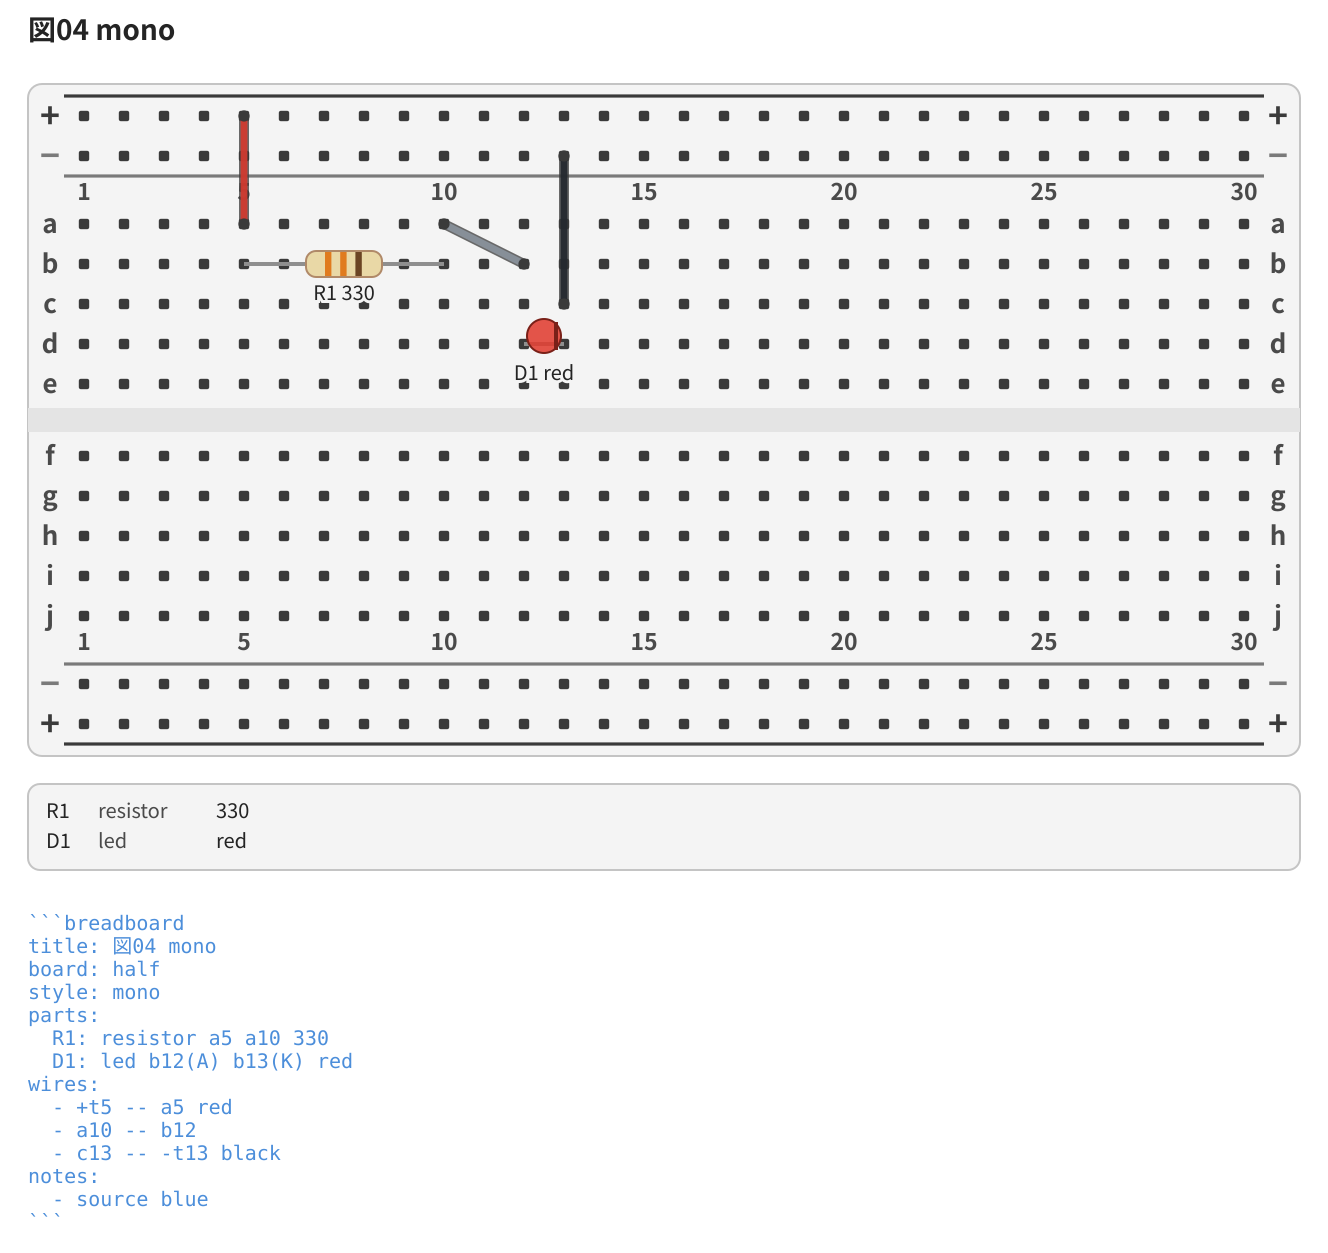
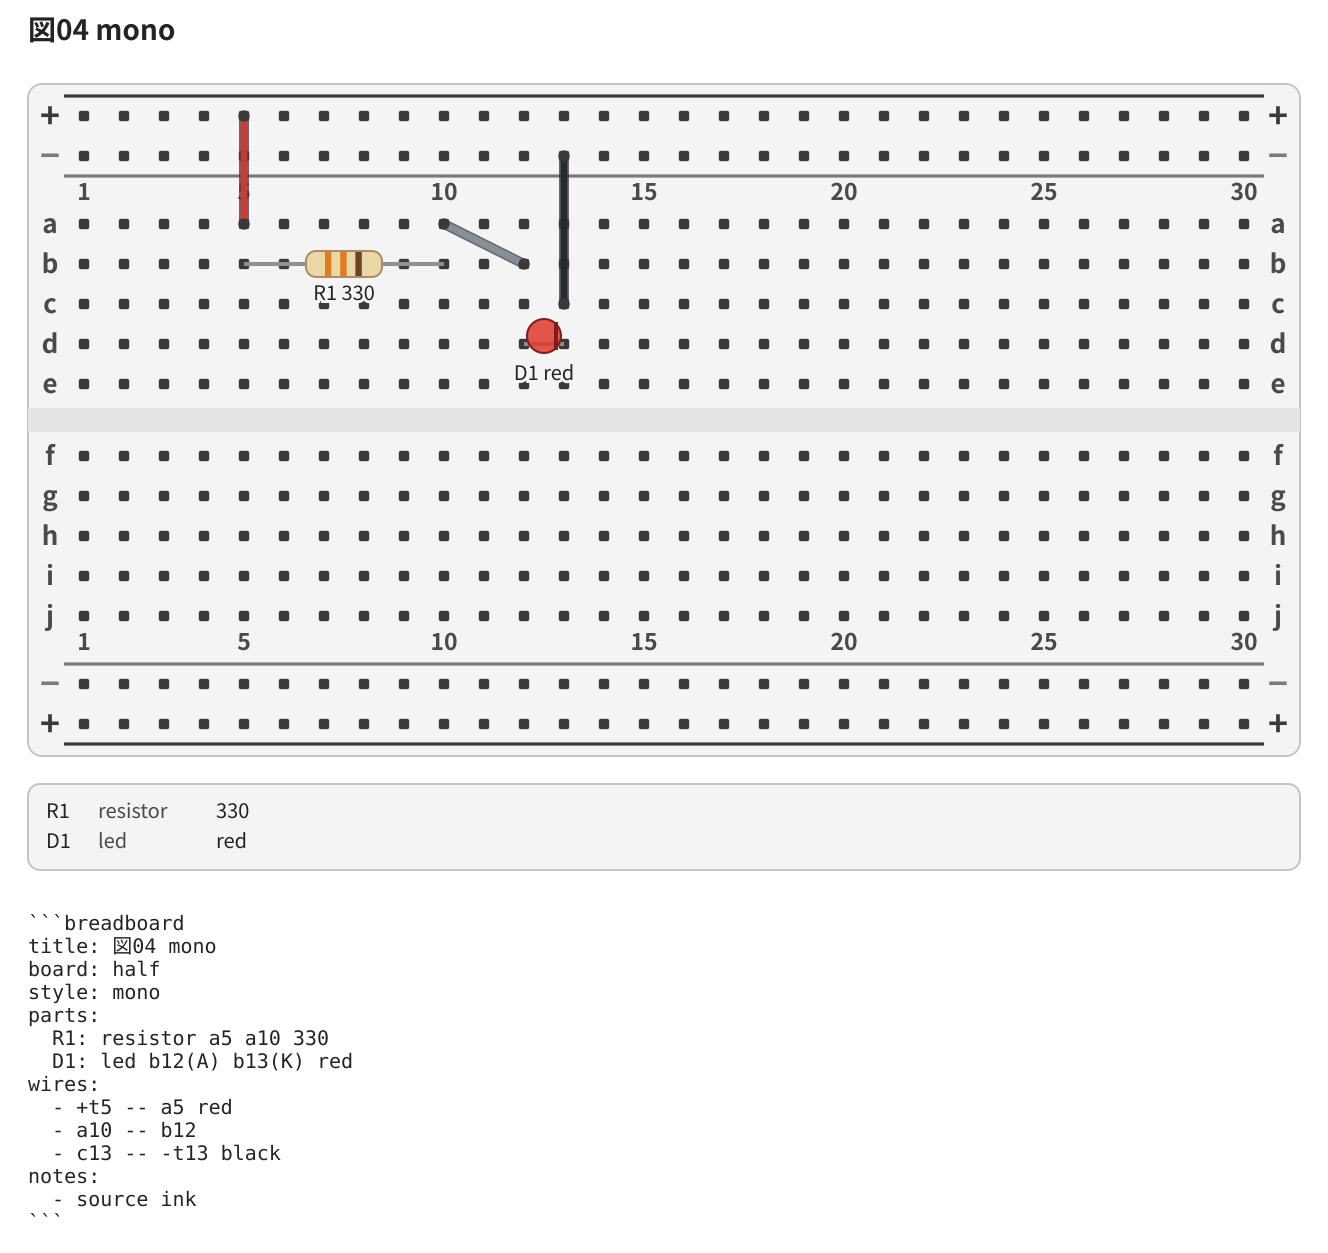
docs(breadboard-fence): mono の例の書き出しをテーマの色に従わせる
02-themes の図04 (mono) だけ - source ink にした。灰色だけの図の中で
書き出しの囲みだけが青く浮いていた。ink は図の文字色なので、テーマを
変えると一緒に動く (色見本の図でテーマの外の色を混ぜない)。

他の 5 枚は blue のまま — あちらは色の付く図なので浮かない。

🤖 Generated with [Claude Code](https://claude.com/claude-code)

Changed region(s): [[0.0309, 0.7159, 0.2161, 0.9649], [0.1852, 0.8093, 0.247, 0.8715], [0.247, 0.8404, 0.2779, 0.8715]]

diff --git a/packages/breadboard-fence/examples/02-themes.md b/packages/breadboard-fence/examples/02-themes.md
@@ -89,7 +89,7 @@ wires:
   - a10 -- b12
   - c13 -- -t13 black
 notes:
-  - source blue
+  - source ink
 ```
 
 ![図04 mono](out/02-themes-4.svg)
